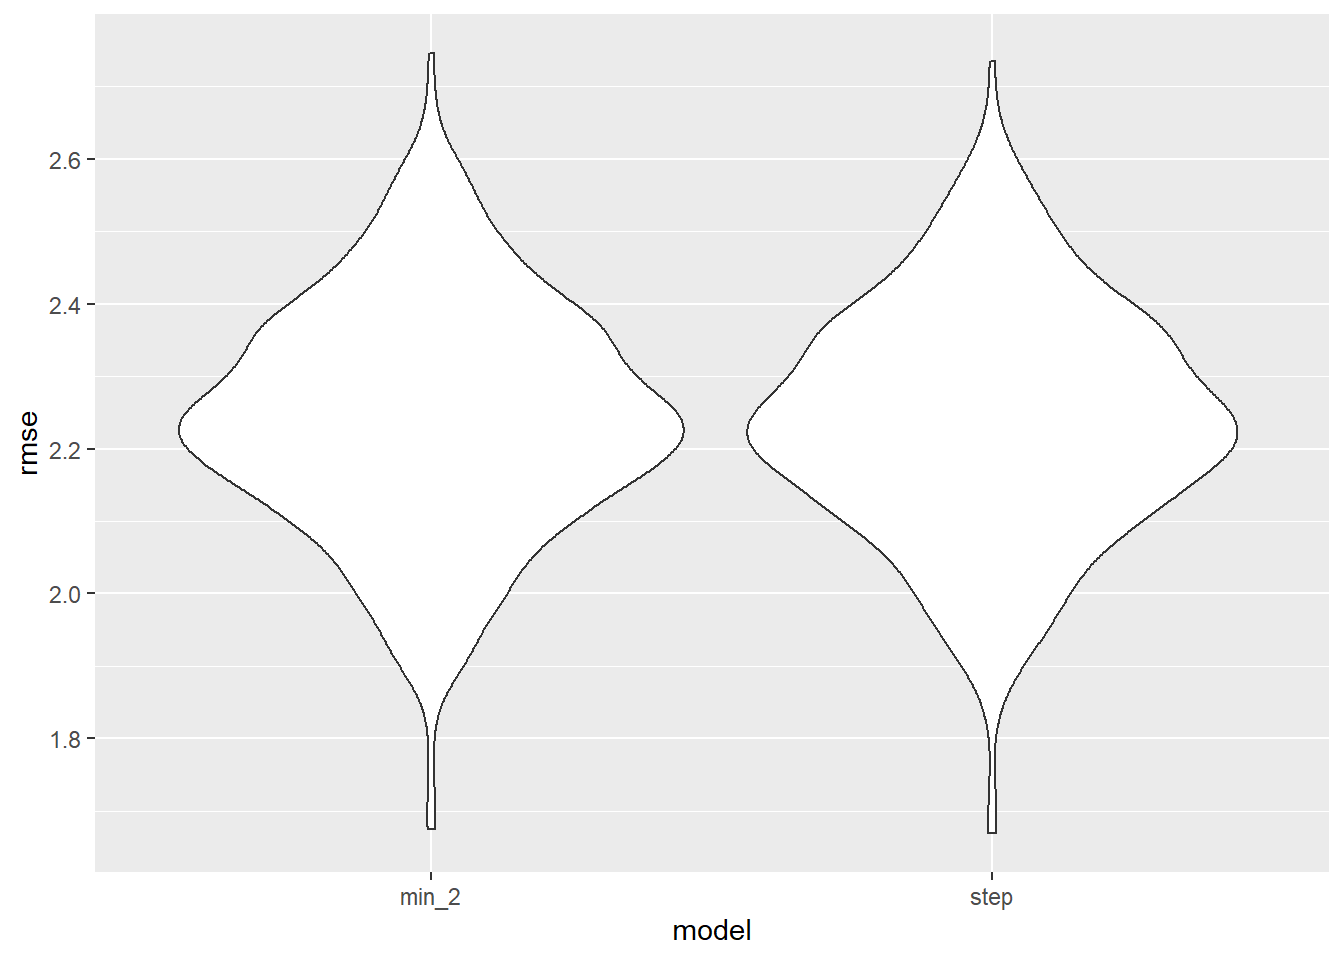
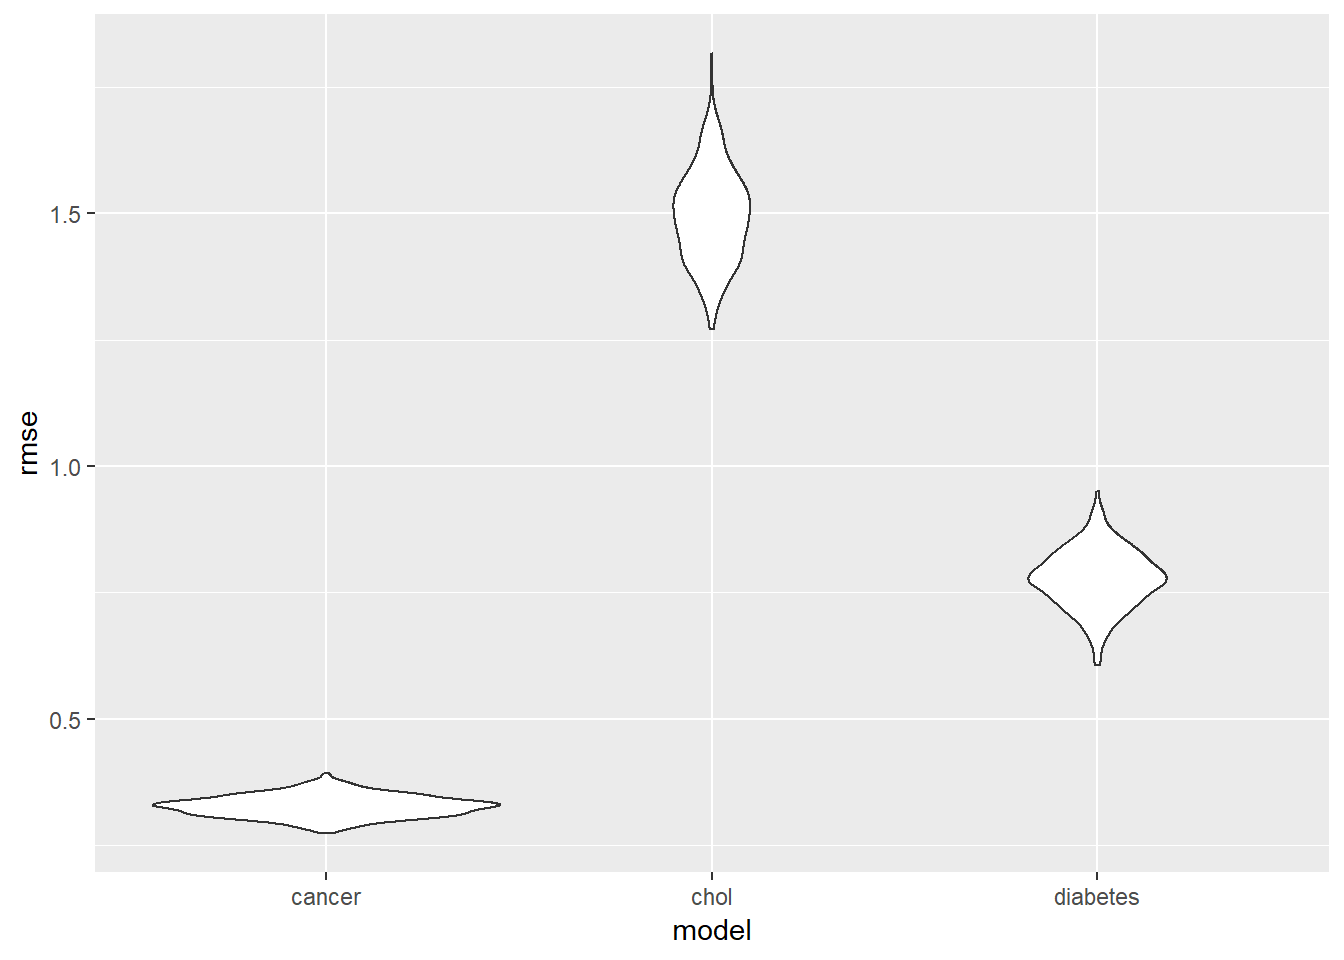
do cross validation on some of the models

diff --git a/outcome_practice_reg.html b/outcome_practice_reg.html
@@ -16,7 +16,7 @@
 
 <script src="site_libs/jquery-1.11.3/jquery.min.js"></script>
 <meta name="viewport" content="width=device-width, initial-scale=1" />
-<link href="site_libs/bootstrap-3.3.5/css/journal.min.css" rel="stylesheet" />
+<link href="site_libs/bootstrap-3.3.5/css/cerulean.min.css" rel="stylesheet" />
 <script src="site_libs/bootstrap-3.3.5/js/bootstrap.min.js"></script>
 <script src="site_libs/bootstrap-3.3.5/shim/html5shiv.min.js"></script>
 <script src="site_libs/bootstrap-3.3.5/shim/respond.min.js"></script>
@@ -106,34 +106,34 @@ button.code-folding-btn:focus {
 <style type="text/css">
 /* padding for bootstrap navbar */
 body {
-  padding-top: 61px;
+  padding-top: 51px;
   padding-bottom: 40px;
 }
 /* offset scroll position for anchor links (for fixed navbar)  */
 .section h1 {
-  padding-top: 66px;
-  margin-top: -66px;
+  padding-top: 56px;
+  margin-top: -56px;
 }
 
 .section h2 {
-  padding-top: 66px;
-  margin-top: -66px;
+  padding-top: 56px;
+  margin-top: -56px;
 }
 .section h3 {
-  padding-top: 66px;
-  margin-top: -66px;
+  padding-top: 56px;
+  margin-top: -56px;
 }
 .section h4 {
-  padding-top: 66px;
-  margin-top: -66px;
+  padding-top: 56px;
+  margin-top: -56px;
 }
 .section h5 {
-  padding-top: 66px;
-  margin-top: -66px;
+  padding-top: 56px;
+  margin-top: -56px;
 }
 .section h6 {
-  padding-top: 66px;
-  margin-top: -66px;
+  padding-top: 56px;
+  margin-top: -56px;
 }
 </style>
 
@@ -1307,7 +1307,7 @@ summary(chol_minus_5)</code></pre>
 ## - COLON_SCREEN_AdjPrev  1     9.806 1113.7 408.40
 ## - DENTAL_AdjPrev        1    18.559 1122.4 412.31
 ## - LPA_AdjPrev           1    55.115 1159.0 428.34</code></pre>
-<pre class="r"><code>summary(chol_step) # I think the only one with the same model for both</code></pre>
+<pre class="r"><code>summary(chol_step) # same model for both</code></pre>
 <pre><code>## 
 ## Call:
 ## lm(formula = HIGHCHOL_AdjPrev ~ DENTAL_AdjPrev + LPA_AdjPrev + 
@@ -1700,15 +1700,17 @@ summary(stroke_minus_1)</code></pre>
 
 cv_df = 
   cv_df %&gt;% 
-  mutate(bp_minus_2 = map(train, ~lm(BPHIGH_AdjPrev ~ COREW_AdjPrev + DENTAL_AdjPrev + LPA_AdjPrev + MAMMOUSE_AdjPrev + PAPTEST_AdjPrev + CHECKUP_AdjPrev + COLON_SCREEN_AdjPrev, data = .x)),
-         bp_stepwise = map(train, ~lm(BPHIGH_AdjPrev ~ COREW_AdjPrev + DENTAL_AdjPrev + LPA_AdjPrev + MAMMOUSE_AdjPrev + PAPTEST_AdjPrev + CHECKUP_AdjPrev + CHOLSCREEN_AdjPrev + COLON_SCREEN_AdjPrev, data = .x))) %&gt;% 
-  mutate(rmse_min_2    = map2_dbl(bp_minus_2, test, ~rmse(model = .x, data = .y)),
-         rmse_step = map2_dbl(bp_stepwise, test, ~rmse(model = .x, data = .y)))
+  mutate(cancer_minus_4 = map(train, ~lm(CANCER_AdjPrev ~ COREM_AdjPrev + DENTAL_AdjPrev + MAMMOUSE_AdjPrev + CHECKUP_AdjPrev + COLON_SCREEN_AdjPrev, data = .x)),
+         chol_minus_5   = map(train, ~lm(HIGHCHOL_AdjPrev ~ DENTAL_AdjPrev + LPA_AdjPrev + CHECKUP_AdjPrev + COLON_SCREEN_AdjPrev, data = .x)),
+         diab_minus_3   = map(train, ~lm(DIABETES_AdjPrev ~ COREW_AdjPrev + DENTAL_AdjPrev + LPA_AdjPrev + MAMMOUSE_AdjPrev + CHECKUP_AdjPrev + CHOLSCREEN_AdjPrev, data = .x))) %&gt;% 
+  mutate(rmse_cancer    = map2_dbl(cancer_minus_4, test, ~rmse(model = .x, data = .y)),
+         rmse_chol      = map2_dbl(chol_minus_5, test, ~rmse(model = .x, data = .y)),
+         rmse_diabetes  = map2_dbl(diab_minus_3, test, ~rmse(model = .x, data = .y)))
 
 cv_df %&gt;% 
   select(starts_with(&quot;rmse&quot;)) %&gt;% 
   gather(key = model, value = rmse) %&gt;% 
-  mutate(model = str_replace(model, &quot;rmse_&quot;, &quot;&quot;),
+  mutate(model = str_replace(model, &quot;rmse_&quot;, &quot;&quot;), 
          model = fct_inorder(model)) %&gt;% 
   ggplot(aes(x = model, y = rmse)) + geom_violin()</code></pre>
 <p><img src="outcome_practice_reg_files/figure-html/unnamed-chunk-1-1.png" width="672" /></p>
